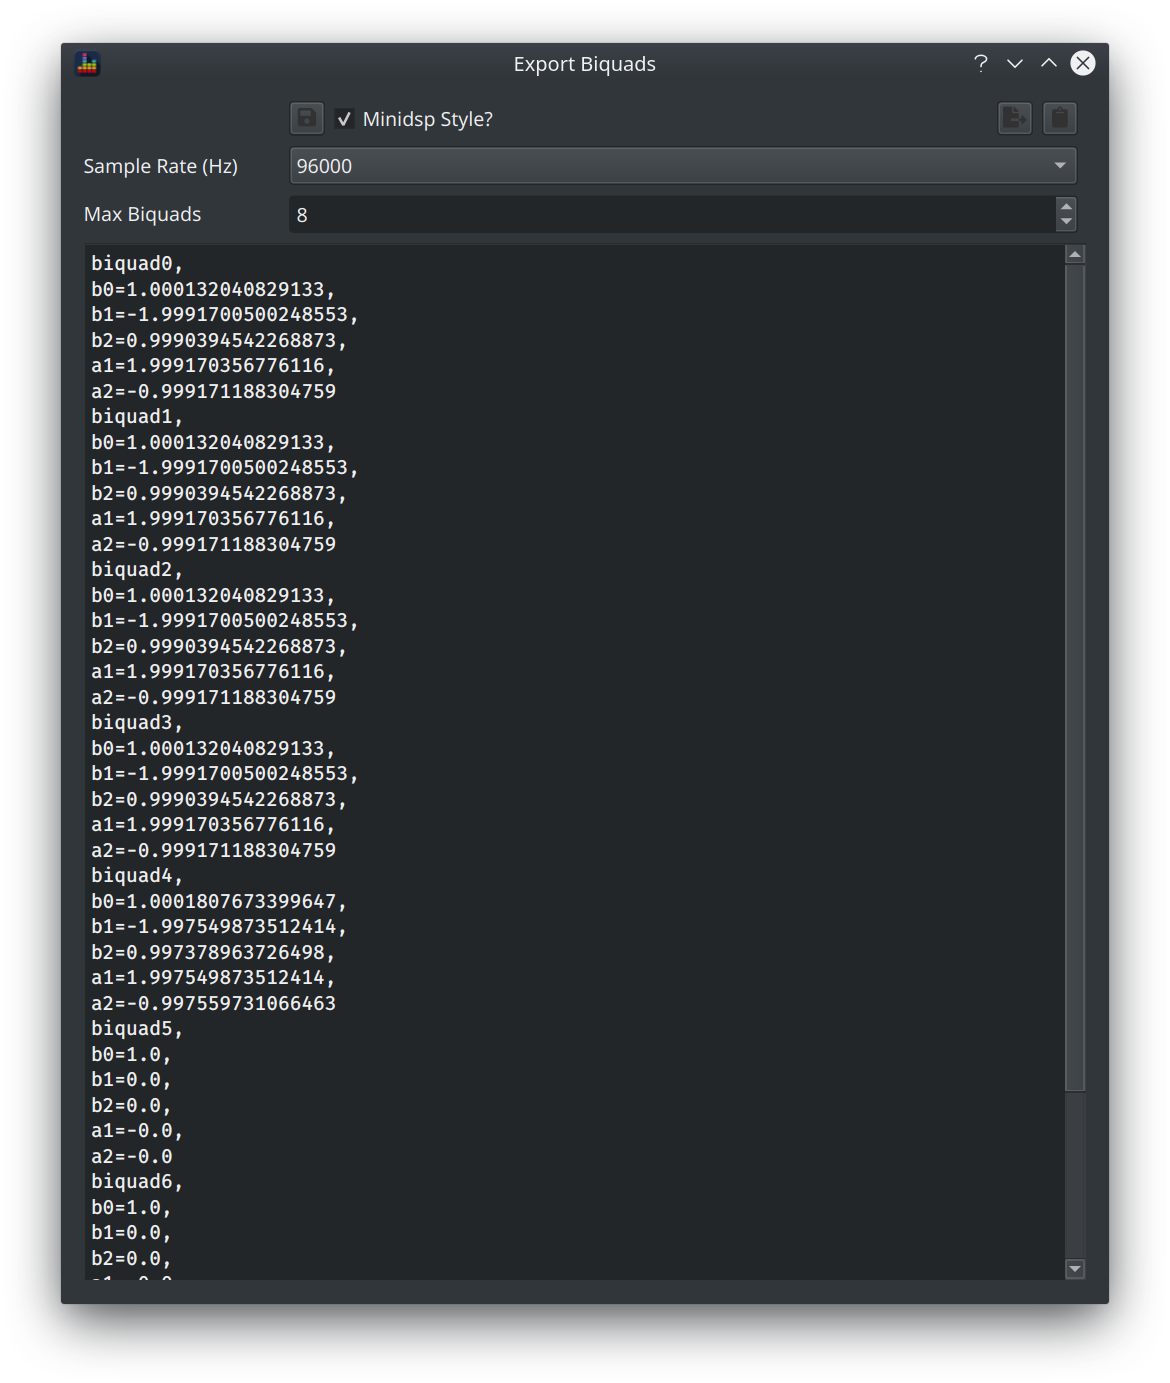
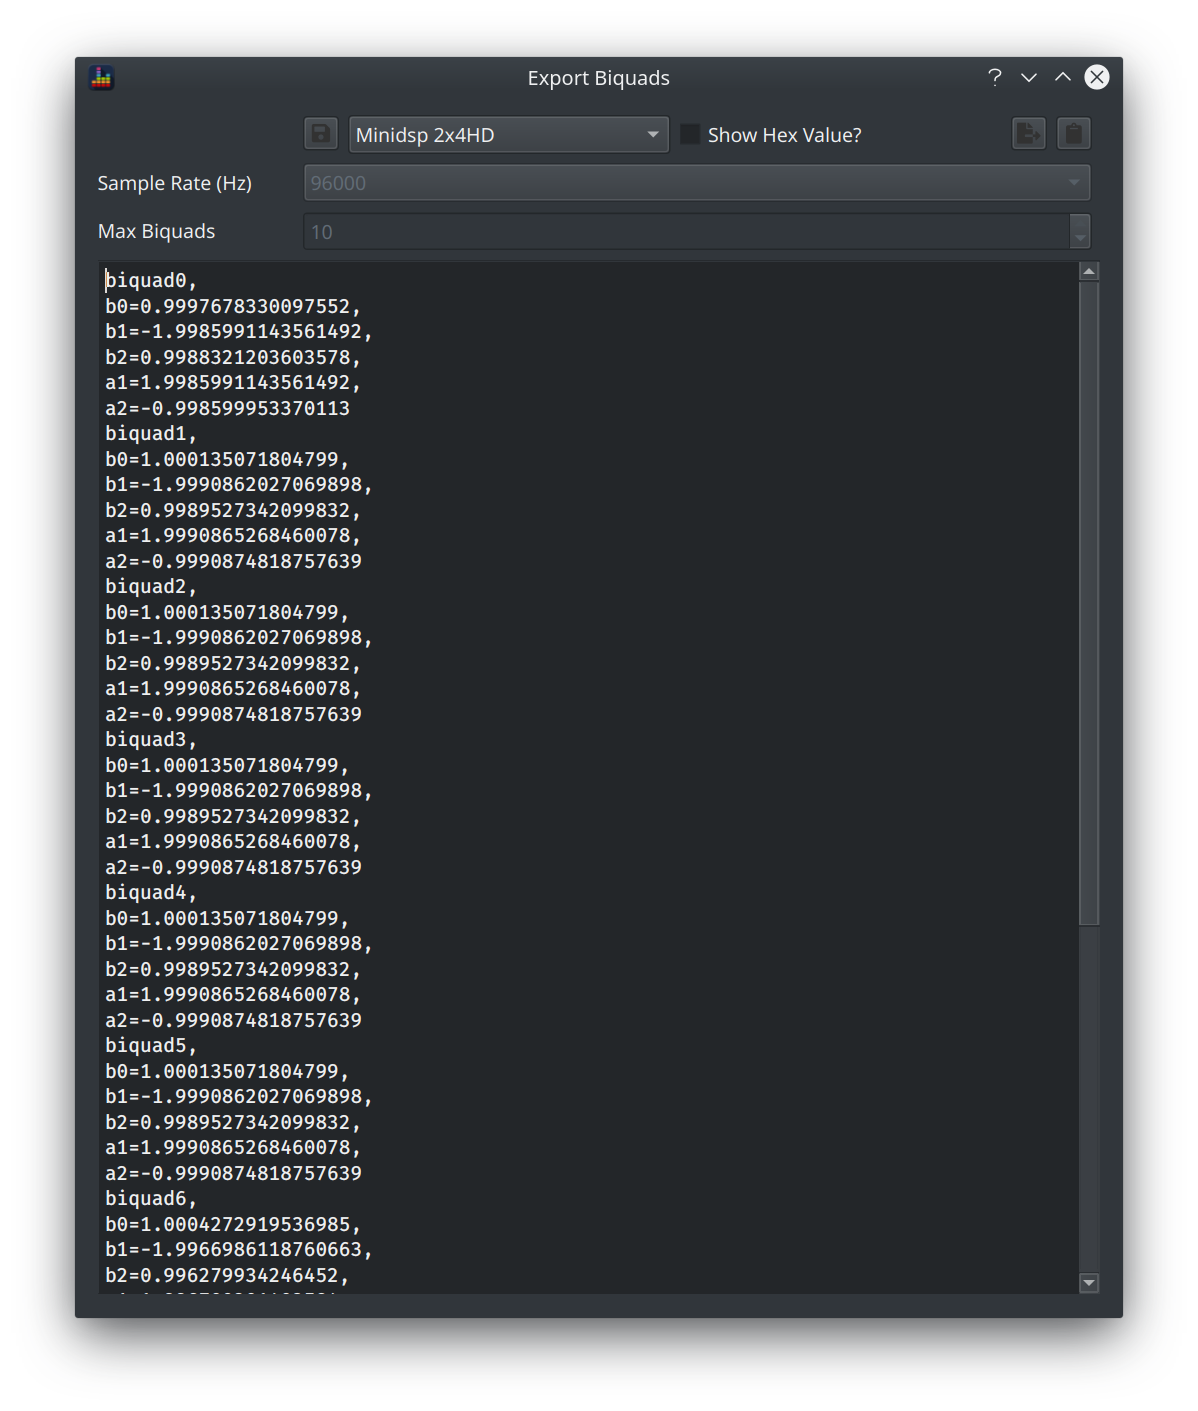
updated docs for 0.7.0

Changed region(s): [[0.0308, 0.0311, 0.9846, 0.9638], [0.5846, 0.0933, 0.7077, 0.1244]]

diff --git a/docs/ui/preferences.md b/docs/ui/preferences.md
@@ -13,7 +13,9 @@ If ffmpeg is not on your `PATH` (which typically means you are a Windows user) t
 These options control how audio files are presented for analysis and are applied only when a signal is added.
 
 * Target Fs: sets the sample rate to use when audio is decimated (either when adding a signal or extracting audio)
-* Resolution: determines the FFT length used in the STFT analysis, the FFT length will be set to aim for the chosen frequency resolution. The actual resolution is constrained by the requirement for a power of 2 FFT length, for example if the sample rate is 1000Hz and the target is 1.0Hz resolution then the FFT length will be 1024 and the actual frequency resolution will be 1000/1024 = 0.976Hz. Alternatively if the sample rate is 48kHz and the target is 1.0Hz then the FFT length will be 65536 and the actual resolution will be 48000/65536 = 0.732Hz
+* Resolution: determines the FFT length used in the STFT analysis, the FFT length will be set to aim for the chosen frequency resolution. 
+    * The actual resolution is constrained by the requirement for a power of 2 FFT length, for example if the sample rate is 1000Hz and the target is 1.0Hz resolution then the FFT length will be 1024 and the actual frequency resolution will be 1000/1024 = 0.976Hz. 
+    * If the sample rate is 48kHz and the target is 1.0Hz then the FFT length will be 65536 and the actual resolution will be 48000/65536 = 0.732Hz
 * Avg/Peak Window: a list of window types is presented corresponding to the [scipy window functions](https://docs.scipy.org/doc/scipy/reference/signal.windows.html#module-scipy.signal.windows), a description of how different window types behave is outside the scope of this guide.
 
 !!! warning
@@ -33,12 +35,12 @@ These options influence the look and feel of BEQDesigner.
 
 * Theme: different colour schemes for the various charts, does not apply to the waveform view.
 * Smooth?
-  * if unchecked, simple line graphs are drawn to join from one point to the next hence graphs will have a slightly 'spiky' appearance.
-  * if checked, an [interpolation method](https://docs.scipy.org/doc/scipy/reference/generated/scipy.interpolate.PchipInterpolator.html#scipy.interpolate.PchipInterpolator) is applied which retains an accurate shape while smoothing the edges slightly
+    * if unchecked, simple line graphs are drawn to join from one point to the next hence graphs will have a slightly 'spiky' appearance.
+    * if checked, an [interpolation method](https://docs.scipy.org/doc/scipy/reference/generated/scipy.interpolate.PchipInterpolator.html#scipy.interpolate.PchipInterpolator) is applied which retains an accurate shape while smoothing the edges slightly
 * Speclab Line Colours?
-  * a compatibility mode for speclab users, if checked each peak curve will be rendered in a shade of red while the average will be in a shade of green.
-  * if unchecked, peak and average for each signal will be the same colour but colours for each signal will vary accordingly to the theme. 
-  * as a rule of thumb, speclab mode is easier to read when viewing a single signal only but becomes unreadable when you have many signals (e.g. a multichannel audio track)
+    * a compatibility mode for speclab users, if checked each peak curve will be rendered in a shade of red while the average will be in a shade of green.
+    * if unchecked, peak and average for each signal will be the same colour but colours for each signal will vary accordingly to the theme. 
+    * as a rule of thumb, speclab mode is easier to read when viewing a single signal only but becomes unreadable when you have many signals (e.g. a multichannel audio track)
 
 ### Graph
 
@@ -48,6 +50,7 @@ These options set defaults for the magnitude graph layout
 * Precalculate Octave Smoothing
   * if checked, all fractional octave curves will be precomputed when the signal is added
   * if unchecked, the smoothed view is calculated as the option changes
+* Auto Expand Y Limits? : if checked, the y axis range will automatically expand to fit all visible data on screen (when the graph is in auto ranging mode)
 * x min/max: default x axis range for graphs
 
 ### Filter

diff --git a/docs/install.md b/docs/install.md
@@ -2,13 +2,16 @@
 
 Releases are hosted on github, the latest official release will always be available via the [github releases page](https://github.com/3ll3d00d/beqdesigner/releases/latest)
 
-3 binaries are provided for official releases:
+4 sets of binaries are provided for official releases:
 
 File Name | OS | Description 
 ----------|----|------------
-beqdesigner.exe | Windows | A portable, self contained exe 
-beqdesignerSetup.exe | Windows | An installer, will startup more quickly than the portable exe 
-beqdesigner | Linux | A portable, self contained binary (tested on Debian Stretch and Fedora 29) 
+beqdesigner.exe | Windows | A portable, self contained exe which is built using the anaconda python distribution and hence uses the MKL libraries
+beqdesignerSetup.exe | Windows | An installer, will startup more quickly than the portable exe which is built using the anaconda python distribution and hence uses the MKL libraries
+beqdesigner_small.exe | Windows | A portable, self contained exe which is built using the python.org python distribution
+beqdesignerSetup_small.exe | Windows | An installer, will startup more quickly than the portable exe which is built using the python.org python distribution 
+beqdesigner_*distro*\_*version*\_*name* | Linux | A portable, self contained binary built for the specified distribution
+beqdesigner.app.zip | OSX | An OSX app bundle 
 
 To use, simply download one of the above binaries and run it.
 
@@ -26,8 +29,16 @@ The only difference is that using beqdesignerSetup.exe should lead to faster sta
 ### OSX Builds
 
 !!! note
-    BEQDesigner is known to work on OSX but binaries are not provided by the author at this point in time. Some binaries are provided by community member bmiller (refer to the [BEQ slack group](https://join.slack.com/t/beqworkspace/shared_invite/enQtNTE3Mjg4MTgzMjY5LWIzZWZjYzNkOTQzZThkYzM5YTAwNzFmY2VlNjFkYTI1NWQ0NDU1ZTViMzg0OWUyMTdkZjQ5NDNmNGFmYzliODY)) for details.
+    OSX binaries are not signed so the user has to explicitly allow it to run. Contributions are welcome to fix this issue, please track [the github issue](https://github.com/3ll3d00d/beqdesigner/issues/251) for more details.
 
+### How can I trust these binaries?
+
+All binaries are compiled on fresh VMs using [travis-ci](https://travis-ci.com/3ll3d00d/beqdesigner/branches) and publishes automatically to github by a [github machine user](https://developer.github.com/v3/guides/managing-deploy-keys/#machine-users).
+
+Builds are created and published from tags in the repo.
+
+This approach means the binaries are completely reproducible by anyone so feel free to make your own or run from source if you do not wish to trust the published binaries.
+    
 ## Optional Dependencies
 
 If you intend to use BEQDesigner to extract audio from movie files and/or remux movie files then you will need a local installation of ffmpeg.
@@ -50,5 +61,3 @@ Refer to your distro for instructions
 Beta releases are published more regularly than official releases. Beta releases provide early access to new or experimental features. Review the release notes for any particular beta release for more details.
 
 They can be found via the full release page on [github](https://github.com/3ll3d00d/beqdesigner/releases).
-
-Note that beta releases are typically shared in `beqdesigner.exe` format only.

diff --git a/docs/ui/main_window.md b/docs/ui/main_window.md
@@ -87,6 +87,10 @@ The precise data shown will vary with the type of filter, for example:
 * S is only defined for a shelf filter
 * gain is not applicable to a low or high pass filter 
 
+Filters are automatically sorted as they are added into ascending frequency order.
+
+Double clicking a row will open the [Edit Filter](./add_filter.md) dialog for that filter.
+
 #### Filter Controls
 
 When no filters have been added, there are 4 separate buttons enabled. These are:
@@ -111,8 +115,6 @@ Lets take a look at the main window when a filter is loaded
 
 This shows the spectral content of the signal. 
 
-The y axis range is automatically set to display a 60dB range while ensuring the peaks of the signal are visible.
-
 #### Main Graph Controls
 
 The precise content shown depends on the selections made via the controls in the bottom right corner
@@ -128,6 +130,34 @@ The options available are:
 * +3dB/octave? : applies a crude 3dB/octave adjustment which approximates the difference between white noise showing as flat or pink noise showing as flat  
 
 Further options to render the responses differently or interact with the content are available above the main graph. 
+
+#### Managing the Y Axis Range
+
+By default, the y axis range is automatically set to display a 60dB range with the maximum values set to ensure the peaks of the signal are visible.
+
+This behaviour can be changed using the *Auto Expand Y Limits?* option in [Preferences](./preferences.md#graph). If this value is checked then the maximum value will be set to include the visible peak and the minimum value will be set to ensure the minimum is value is also visible. 
+
+!!! info
+    Auto ranging is based on the data visible in the current x axis range only.
+
+A quick access toolbar is also available alongside each y axis
+
+![Graph Toolbar](../img/graph_toolbar.png)
+
+3 groups of controls are available
+
+1. Shift upper limit
+2. Auto ranging toggle
+3. Shift lower limit
+
+Each shift group has 4 buttons which perform the following shifts in dB
+
+* +10
+* +5
+* -5
+* -10
+
+The middle group acts as a toggle and either turns on or turns off the currently configured auto ranging.
 
 #### Showing the difference between Curves
 
@@ -168,7 +198,9 @@ This allows you to enter a frequency and see the magnitude at that frequency for
 
 ![Graph Options](../img/graph_options.png)
 
-Clicking the right hand button opens the Graph Limits dialog
+Clicking the right hand button opens the [Graph Limits](#graph-limits) dialog.
+
+#### Graph Limits
 
 ![Graph Limits](../img/graph_limits.png)
 

diff --git a/docs/ui/export_biquads.md b/docs/ui/export_biquads.md
@@ -13,7 +13,8 @@ The dialog contains a text area which prints out the filters in biquad coefficie
 A number of buttons across the top do the following, from left to right:
 
 * save the currently selected options as the default
-* Use MiniDSP style?: Select this option if you are exporting in order to import into the minidsp UI otherwise leave unchecked
+* Device selector: this allows you to choose from a preconfigured minidsp product (with values exported in the right format for that device) or to output the raw coefficients 
+* Show hex value? : this value is largely for debugging purposes with respect to certain minidsp devices and the [merge xml](./merge_minidsp_xml.md) function
 * save to file: saves the displayed text to a file
 * copy to clipboard: copies the displayed text to the system clipboard
 

diff --git a/docs/ui/add_filter.md b/docs/ui/add_filter.md
@@ -21,6 +21,7 @@ From top to bottom:
 
 !!! info
     Use the button next to each field to change the size of the step up or down
+    
     Click multiple times to see the available step sizes
 
 The buttons to the right of each field show the current step size for the field, click the field to change the resolution to allow fine tuning or coarse adjustments.
@@ -30,6 +31,7 @@ The buttons across the bottom are, from left to right:
 * Add a new filter
 * Save the current filter
 * Close the dialog
+* Show the [axes limits](./main_window.md#graph-limits) dialog
 
 !!! warning
     Remember to click Add or Edit as changes are not committed to the signal unless one of these buttons is clicked
